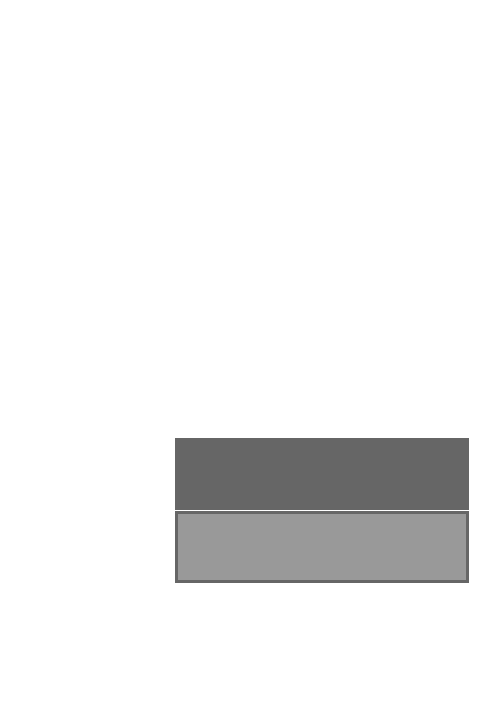
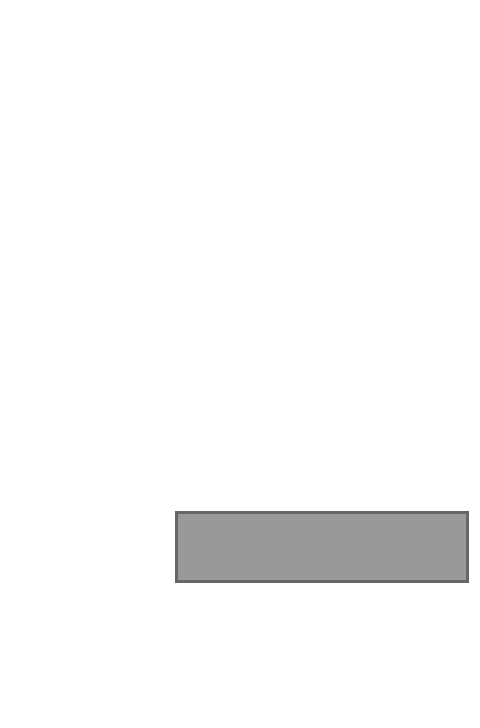
update preview, use proper light/dark neutral colours

Changed region(s): [[0.3438, 0.6044, 1.0, 0.7253]]

diff --git a/src/html/index.html b/src/html/index.html
@@ -237,6 +237,8 @@
               'res/actionbar-preview/' + theme + '-' + type + '/' + 'mask_ab_stacked.png');
           previewList['mask-accent' + '-' + theme + '-' + type] = (
               'res/actionbar-preview/' + theme + '-' + type + '/' + 'mask_accent.png');
+          previewList['mask-pressed' + '-' + theme + '-' + type] = (
+              'res/actionbar-preview/' + theme + '-' + type + '/' + 'mask_pressed.png');
           previewList['mask-popup' + '-' + theme + '-' + type] = (
               'res/actionbar-preview/' + theme + '-' + type + '/' + 'mask_popup.png');
           previewList['mask-tab' + '-' + theme + '-' + type] = (
@@ -453,7 +455,8 @@
       	'tabColor':'#33B5E5'
       }
       
-      var NEUTRAL_PRESSED_COLOR = '#F0F0F0';
+      var NEUTRAL_PRESSED_COLOR_DARK = '#F0F0F0';
+      var NEUTRAL_PRESSED_COLOR_LIGHT = '#999999';
       
       function setDefaultColorPalette(theme) {
       	if (theme == 'light') {
@@ -683,7 +686,7 @@
                 (backgroundShape.match('tab_selected_') || backgroundShape.match('tab_unselected_')) ? values['accentColor'].color : null;
                 
               if (neutralPressed && ((backgroundShape.match('tab_selected_pressed') || backgroundShape.match('tab_unselected_pressed')))) {
-              	altFillColor = NEUTRAL_PRESSED_COLOR;
+              	altFillColor = (coreTheme == 'dark') ? NEUTRAL_PRESSED_COLOR_DARK : NEUTRAL_PRESSED_COLOR_LIGHT;
               }
               
               var maskName = (backgroundShape.match('tab_unselected_') && (values['hairline'] == true)) ? '-mask_old' : '-mask';
@@ -784,6 +787,7 @@
 			var tmpCtxAB = imagelib.drawing.context(iconSize);
 			var tmpCtxStacked = imagelib.drawing.context(iconSize);
 			var tmpCtxAccent = imagelib.drawing.context(iconSize);
+			var tmpCtxPressed = imagelib.drawing.context(iconSize);
 			var tmpCtxPopup = imagelib.drawing.context(iconSize);
 			var tmpCtxTab = imagelib.drawing.context(iconSize);
 
@@ -821,6 +825,16 @@
 			tmpCtxAccent.fillRect(0, 0, iconSize.w, iconSize.h);
 			tmpCtxAccent.restore();
 			
+			fillColor = (neutralPressed) ? (coreTheme == 'dark') ? NEUTRAL_PRESSED_COLOR_DARK : NEUTRAL_PRESSED_COLOR_LIGHT : values['accentColor'].color;
+			
+			tmpCtxPressed.save();
+			tmpCtxPressed.globalCompositeOperation = 'source-over';
+			imagelib.drawing.copy(tmpCtxPressed, PREVIEW_RESOURCES['mask-pressed' + '-' + coreTheme + '-' + abStyle], iconSize);
+			tmpCtxPressed.globalCompositeOperation = 'source-atop';
+			tmpCtxPressed.fillStyle = fillColor;
+			tmpCtxPressed.fillRect(0, 0, iconSize.w, iconSize.h);
+			tmpCtxPressed.restore();
+			
 			fillColor = values['tabColor'].color;
 			
 			tmpCtxTab.save();
@@ -853,6 +867,7 @@
 			imagelib.drawing.copy(outCtx, tmpCtxPopup, iconSize);
 			imagelib.drawing.copy(outCtx, tmpCtxTab, iconSize);
 			imagelib.drawing.copy(outCtx, tmpCtxAccent, iconSize);
+			imagelib.drawing.copy(outCtx, tmpCtxPressed, iconSize);
 			imagelib.drawing.copy(outCtx, PREVIEW_RESOURCES['fore' + foreEffect + '-' + coreTheme + '-' + abStyle], iconSize);
 
 			imagelib.loadFromUri(outCtx.canvas.toDataURL(), function(backgroundShape) {
@@ -929,7 +944,7 @@
           }),
           new studio.forms.BooleanField('neutralPressed', {
             title: 'Neutral pressed states',
-            helpText: 'KitKat style pressed colors.',
+            helpText: 'Default KitKat style.',
             defaultValue: true,
             offText: 'Off',
             onText: 'On'
